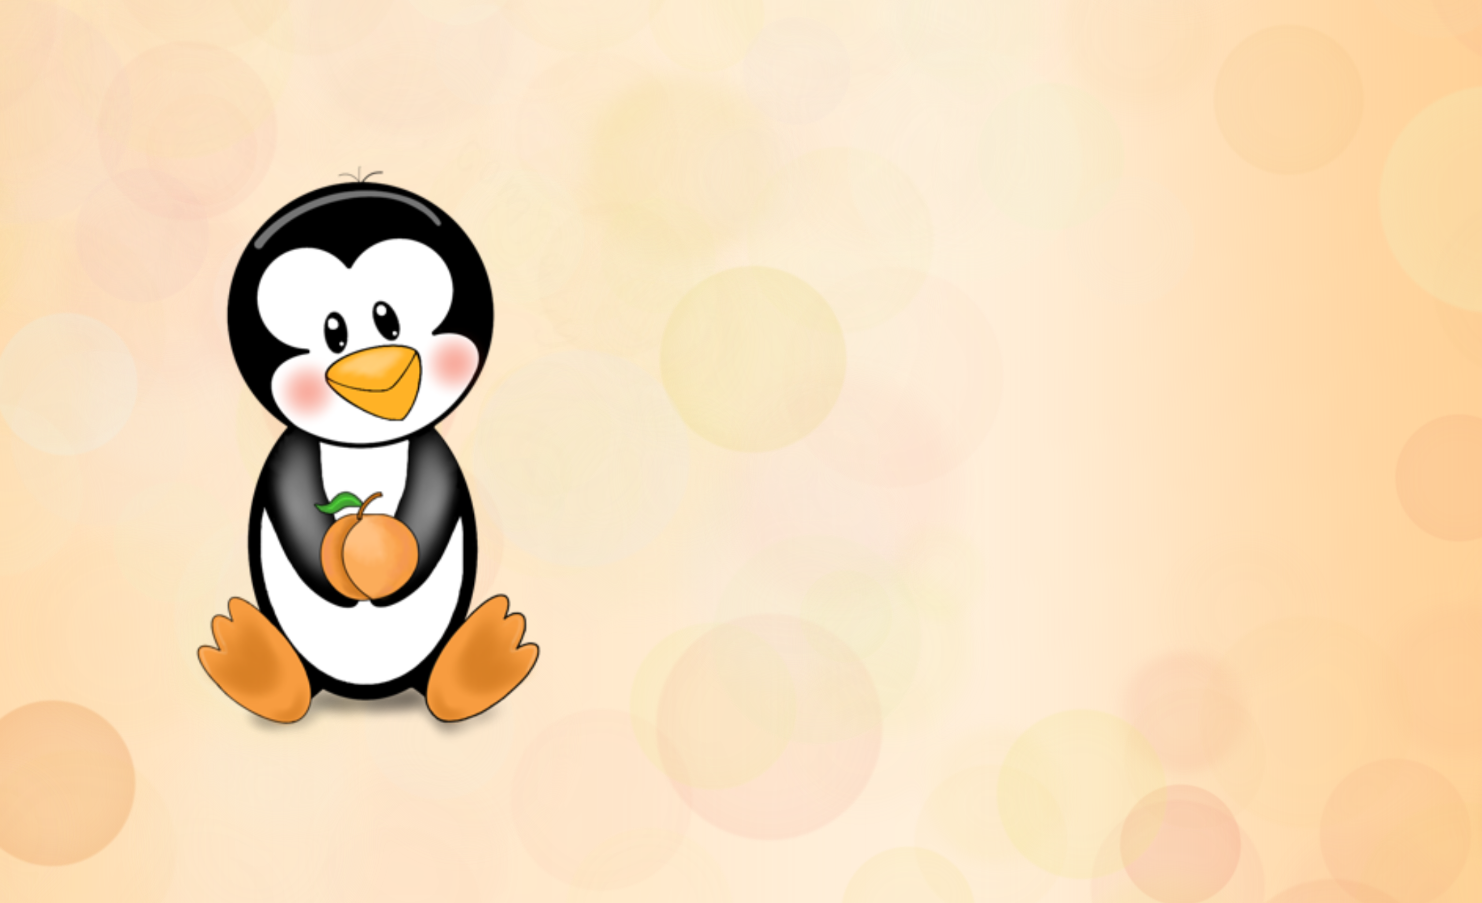
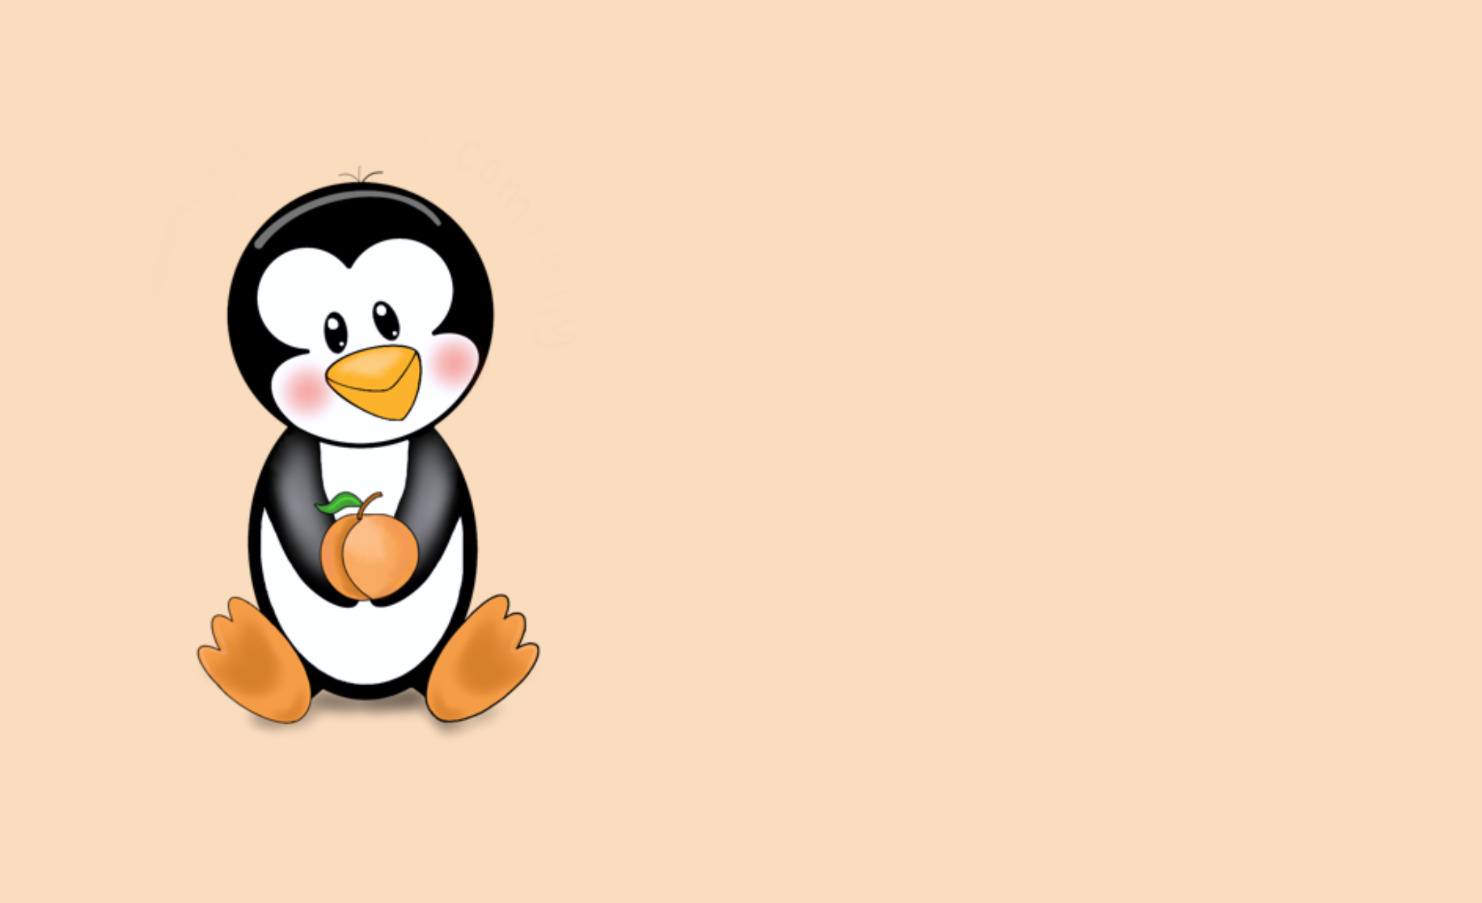
homepage

diff --git a/peachypenguin/index.html b/peachypenguin/index.html
@@ -38,7 +38,7 @@
     <img class="banner" src="images/banner.png" alt="Banner">
     <section class="msg">
         <h2>About Peachy Penguin</h2>
-        <p>Welcome to Peachy Penguin! We are a family owned business dedicated to making your stickers dreams come true! We offer a variety of stickers guarenteed to satisfy the needs all ages and personalities, or businesses! From motivational quotes to help you get through your day, to quirky jokes to add a smile to your face, we have it all. That empty spot on your hydroflask or laptop is begging for you to dive deep into our one of a kind and hand made graphic stickers! We also offer services to design logos or shipping labels for businesses! Research shows that stickers are one of the most effective ways to increase visibility for branding and promotions. The importance of a good design cannot be understated. We love to work with our clients until they are satisfied with the results and are proud to stick their custom graphic all over town to increase awareness! All of our stickers, no matter the theme, are printed on high quality matte adhesive paper that you will love.</p>
+        <p>Welcome to Peachy Penguin! We are a family owned business dedicated to making your stickers dreams come true! We offer a variety of stickers guarenteed to satisfy the needs all ages and personalities, or businesses! From motivational quotes to help you get through your day, to quirky jokes to add a smile to your face, we have it all. That empty spot on your hydroflask or laptop is begging for you to dive deep into our one of a kind and hand made graphic stickers! We also offer services to design logos or shipping labels for businesses! Research shows that stickers are one of the most effective ways to increase visibility for branding and promotions. The importance of a good design cannot be understated. We love to work with our clients until they are satisfied with the results and are proud to stick their custom graphic all over town to increase awareness! All of our stickers, no matter the theme, are printed on high quality matte adhesive paper that you will love. </p>
         <a class='join' href="rivers.html">Join Us</a>
     </section>
         <section class="ironman-card">

diff --git a/peachypenguin/styles/style.css b/peachypenguin/styles/style.css
@@ -42,13 +42,12 @@ h2 {
     }
     .msg {
         background-color: #F9DBBD;
-        line-height: 1.5em;
-        grid-column: 6/10;
-        grid-row: 6/7;
-        box-shadow: 5px 5px 10px #000000;
+        line-height: 1.25em;
+        grid-column: 4/10;
+        grid-row: 1/2;
     }
     footer {
-        background-color:#0B3954;
+        background-color:#F9DBBD;
         color: #A4778B;
         padding: 25px 50px;
         margin-top: 200px;
@@ -108,7 +107,7 @@ h2 {
         font-family: 'Caveat', 'Abel';
         font-size: .8em;
         text-align: center;
-        padding: 35px;
+        padding: 30px;
     }
     footer a {
         background-color: #DDD1C7;
@@ -176,22 +175,22 @@ h2 {
         margin: 0 auto;
         width: 100%;
     }
-    .card-img, .banner {
+    .card-img {
         width: 100%;
         box-shadow: 5px 5px 10px #000000;
     }
     .ironman-card {
-        grid-column: 2/4;
-        grid-row: 2/3;
+        grid-column: 4/6;
+        grid-row: 3/3;
     }
     .november-card {
-        grid-column: 5/7;
-        grid-row: 2/3;
+        grid-column: 7/9;
+        grid-row: 3/3;
     }
     .banner {
         grid-column: 2/7;
-        grid-row: 5/8;
-        box-shadow: 5px 5px 10px #000000;
+        grid-row: 1/2;
+        width: 100%;
     }
     .card-img:hover {
         opacity: .6;
